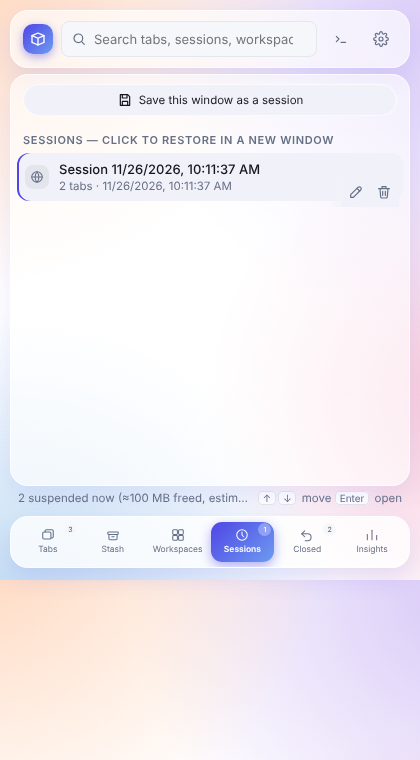
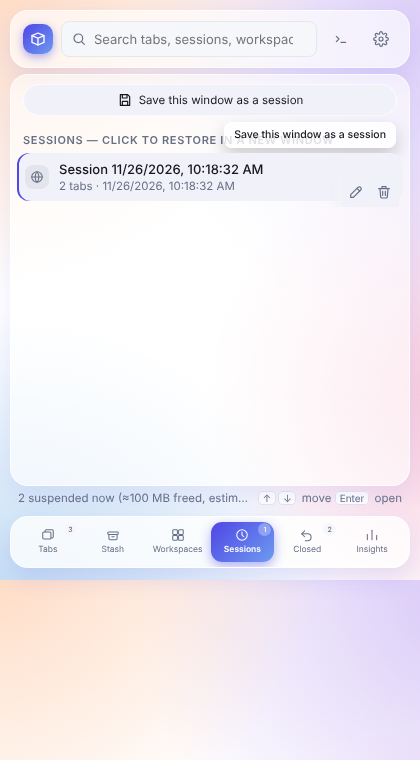
Themed tooltips, thinner clipped scrollbar, restyled chips
Add custom glass-styled tooltips on hover for icon-only buttons
(toolbar, row actions, header icons), replacing the plain native
one. Thin the list scrollbar and inset its track so the thumb no
longer pokes past the panel's rounded corner, and stop it from
forcing a stray horizontal scrollbar (main now clips overflow-x).
Give the default status pill (e.g. "suspended", "tab") a tinted
glass background instead of flat gray to match the rest of the
theme.

Changed region(s): [[0.4643, 0.1513, 0.9286, 0.2724]]

diff --git a/src/entrypoints/popup/style.css b/src/entrypoints/popup/style.css
@@ -77,8 +77,28 @@ input[type='search']:focus { border-color: var(--accent); outline: none; box-sha
 button { padding: 6px 10px; border: 1px solid var(--line); border-radius: var(--radius); background: transparent; cursor: pointer; transition: background .15s var(--ease), border-color .15s var(--ease), transform .15s var(--ease), box-shadow .15s var(--ease), color .15s var(--ease); }
 button:hover { border-color: var(--accent); background: var(--hover); transform: translateY(-1px); }
 button:active { transform: translateY(0); }
-button.icon { width: 32px; height: 32px; padding: 0; flex: none; display: grid; place-items: center; border-color: transparent; color: var(--muted); }
+button.icon { position: relative; width: 32px; height: 32px; padding: 0; flex: none; display: grid; place-items: center; border-color: transparent; color: var(--muted); }
 button.icon:hover { color: var(--fg); border-color: var(--line); }
+
+/* ---- themed hover tooltips for icon-only buttons (toolbar, row actions, header icons) ---- */
+.toolbar button, .actions button { position: relative; }
+.toolbar button[title]::after, .actions button[title]::after, button.icon[title]::after {
+  content: attr(title); position: absolute; top: calc(100% + 7px); left: 50%; transform: translateX(-50%) translateY(-3px);
+  max-width: 180px; width: max-content; white-space: normal; text-align: center; font-size: 10.5px; font-weight: 500; line-height: 1.3;
+  color: var(--fg); background: var(--glass-strong); border: 1px solid var(--glass-border); border-radius: 8px; padding: 5px 9px;
+  backdrop-filter: blur(16px) saturate(1.3); -webkit-backdrop-filter: blur(16px) saturate(1.3);
+  box-shadow: 0 8px 18px rgba(0, 0, 0, .2); opacity: 0; pointer-events: none; z-index: 25;
+  transition: opacity .12s var(--ease), transform .12s var(--ease);
+}
+.toolbar button[title]:hover::after, .toolbar button[title]:focus-visible::after,
+.actions button[title]:hover::after, .actions button[title]:focus-visible::after,
+button.icon[title]:hover::after, button.icon[title]:focus-visible::after {
+  opacity: 1; transform: translateX(-50%) translateY(0);
+}
+.toolbar button:first-child[title]::after { left: 0; transform: translateX(0) translateY(-3px); }
+.toolbar button:first-child[title]:hover::after, .toolbar button:first-child[title]:focus-visible::after { transform: translateX(0) translateY(0); }
+.toolbar button:last-child[title]::after { left: auto; right: 0; transform: translateX(0) translateY(-3px); }
+.toolbar button:last-child[title]:hover::after, .toolbar button:last-child[title]:focus-visible::after { transform: translateX(0) translateY(0); }
 button.primary { background: linear-gradient(135deg, var(--accent), var(--accent-2)); color: var(--accent-fg); border-color: transparent; font-weight: 600; box-shadow: 0 4px 14px color-mix(in srgb, var(--accent) 38%, transparent); }
 button.primary:hover { filter: brightness(1.06); box-shadow: 0 6px 18px color-mix(in srgb, var(--accent) 48%, transparent); }
 button.danger:hover { border-color: var(--danger); color: var(--danger); }
@@ -111,16 +131,16 @@ nav .count {
 nav button[aria-selected='true'] .count { background: rgba(255, 255, 255, .3); color: inherit; }
 
 main {
-  order: 1; flex: 1; overflow-y: auto; margin: 0 10px; padding-bottom: 8px;
+  order: 1; flex: 1; overflow-y: auto; overflow-x: hidden; margin: 0 10px; padding-bottom: 8px;
   scrollbar-width: thin; scrollbar-color: color-mix(in srgb, var(--accent) 55%, transparent) transparent;
   background: var(--glass); backdrop-filter: blur(18px) saturate(1.3); -webkit-backdrop-filter: blur(18px) saturate(1.3);
   border: 1px solid var(--glass-border); border-radius: var(--radius-lg);
   box-shadow: 0 10px 26px color-mix(in srgb, var(--accent) 10%, transparent);
   animation: rise .26s var(--ease) both;
 }
-main::-webkit-scrollbar { width: 7px; }
-main::-webkit-scrollbar-track { background: transparent; }
-main::-webkit-scrollbar-thumb { background: color-mix(in srgb, var(--accent) 55%, transparent); border-radius: 999px; }
+main::-webkit-scrollbar { width: 5px; }
+main::-webkit-scrollbar-track { background: transparent; margin: 10px 0; }
+main::-webkit-scrollbar-thumb { background: color-mix(in srgb, var(--accent) 55%, transparent); border-radius: 999px; background-clip: padding-box; }
 main::-webkit-scrollbar-thumb:hover { background: color-mix(in srgb, var(--accent) 75%, transparent); }
 .toolbar { display: flex; flex-wrap: nowrap; justify-content: space-between; gap: 6px; padding: 10px 12px 4px; }
 .toolbar button {
@@ -160,7 +180,10 @@ li .t b, li .t small { display: block; overflow: hidden; text-overflow: ellipsis
 li .t b { font-weight: 550; }
 li small { color: var(--muted); font-size: 11.5px; }
 li.discarded .t b, li.discarded .fav { opacity: .55; }
-.pill { font-size: 10px; line-height: 16px; padding: 0 7px; border-radius: 999px; flex: none; background: var(--surface); color: var(--muted); border: 1px solid var(--line); transition: transform .15s var(--ease); }
+.pill {
+  font-size: 10px; line-height: 16px; padding: 0 7px; border-radius: 999px; flex: none; transition: transform .15s var(--ease);
+  background: color-mix(in srgb, var(--fg) 7%, transparent); color: var(--muted); border: 1px solid color-mix(in srgb, var(--fg) 12%, transparent);
+}
 .pill.accent { background: color-mix(in srgb, var(--accent) 16%, transparent); color: var(--accent); border-color: transparent; }
 .pill.ok { color: var(--ok); background: color-mix(in srgb, var(--ok) 16%, transparent); border-color: transparent; animation: pulseGlow 2.2s ease-in-out infinite; }
 .pill.warn { color: var(--danger); background: color-mix(in srgb, var(--danger) 14%, transparent); border-color: transparent; }
